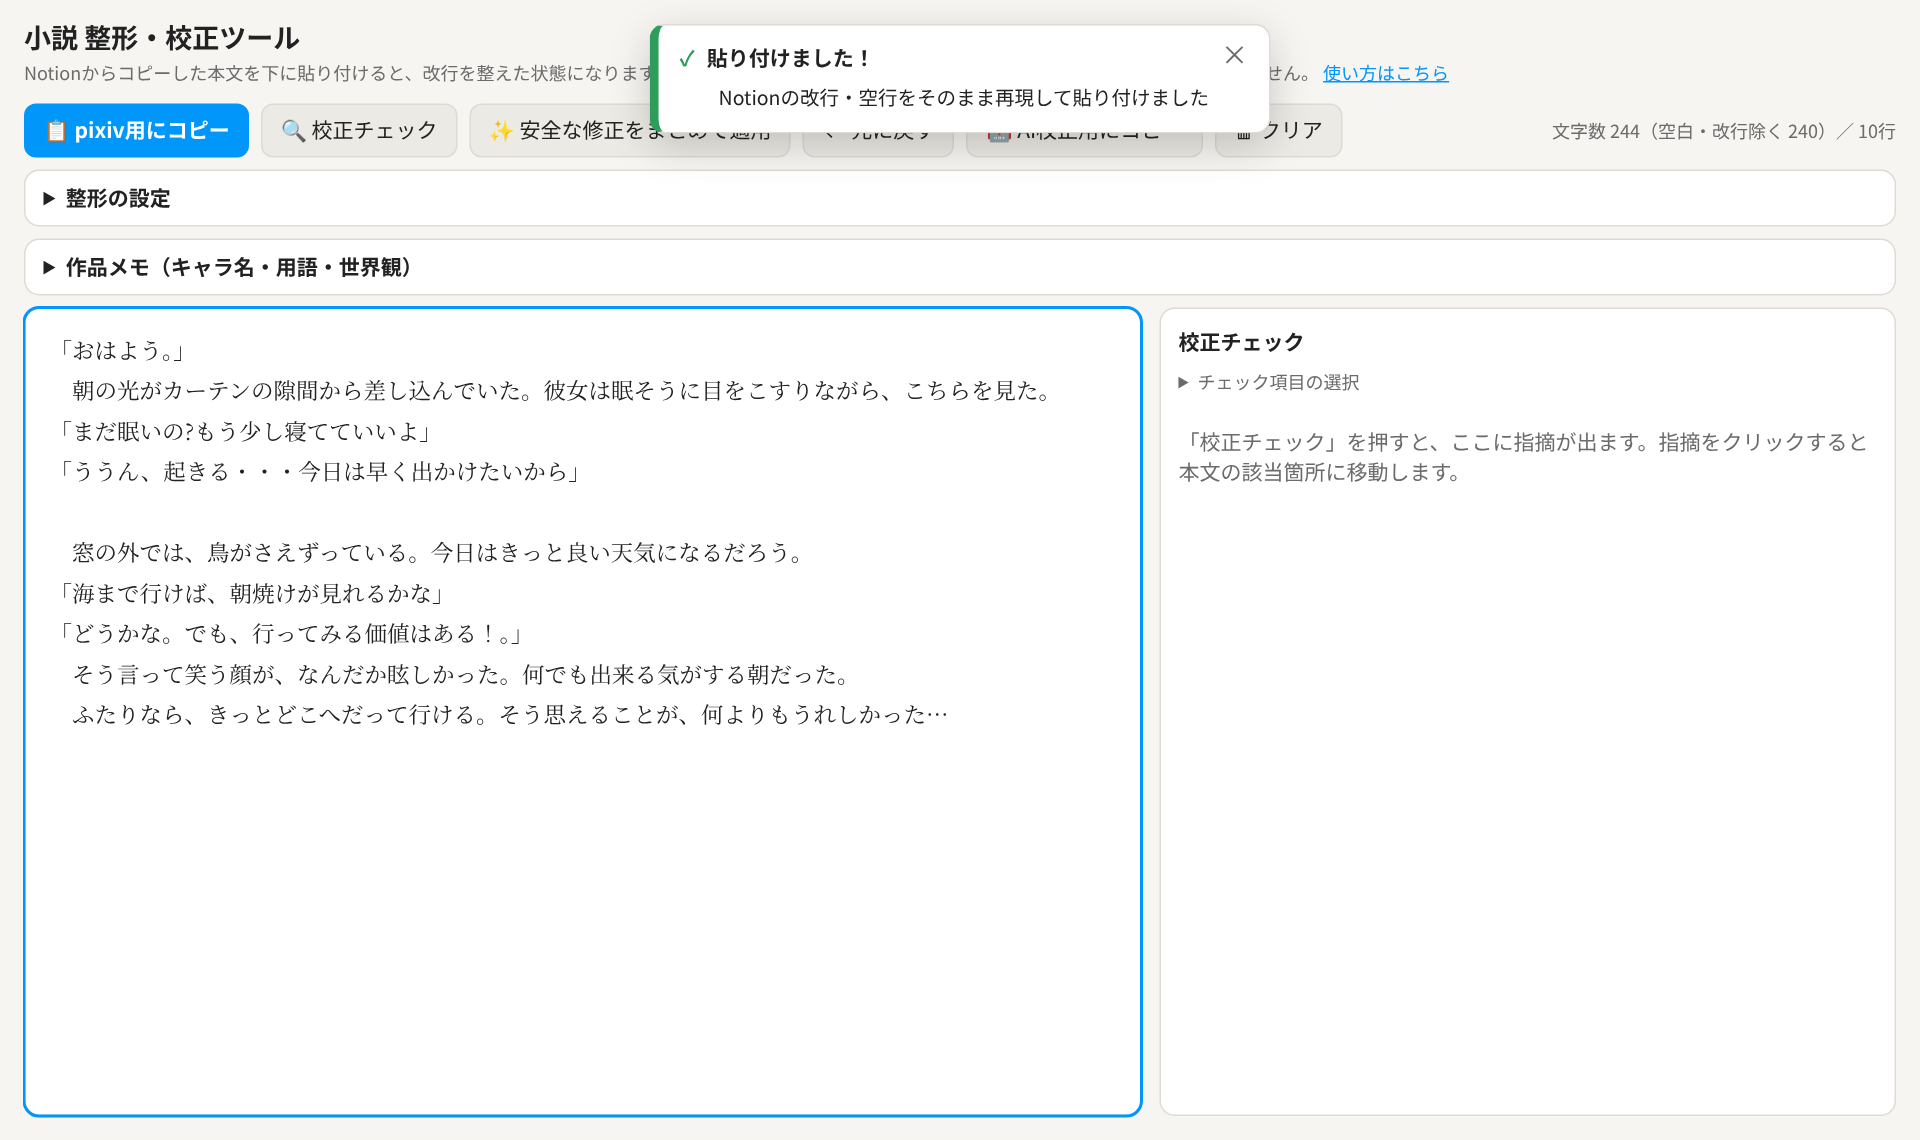
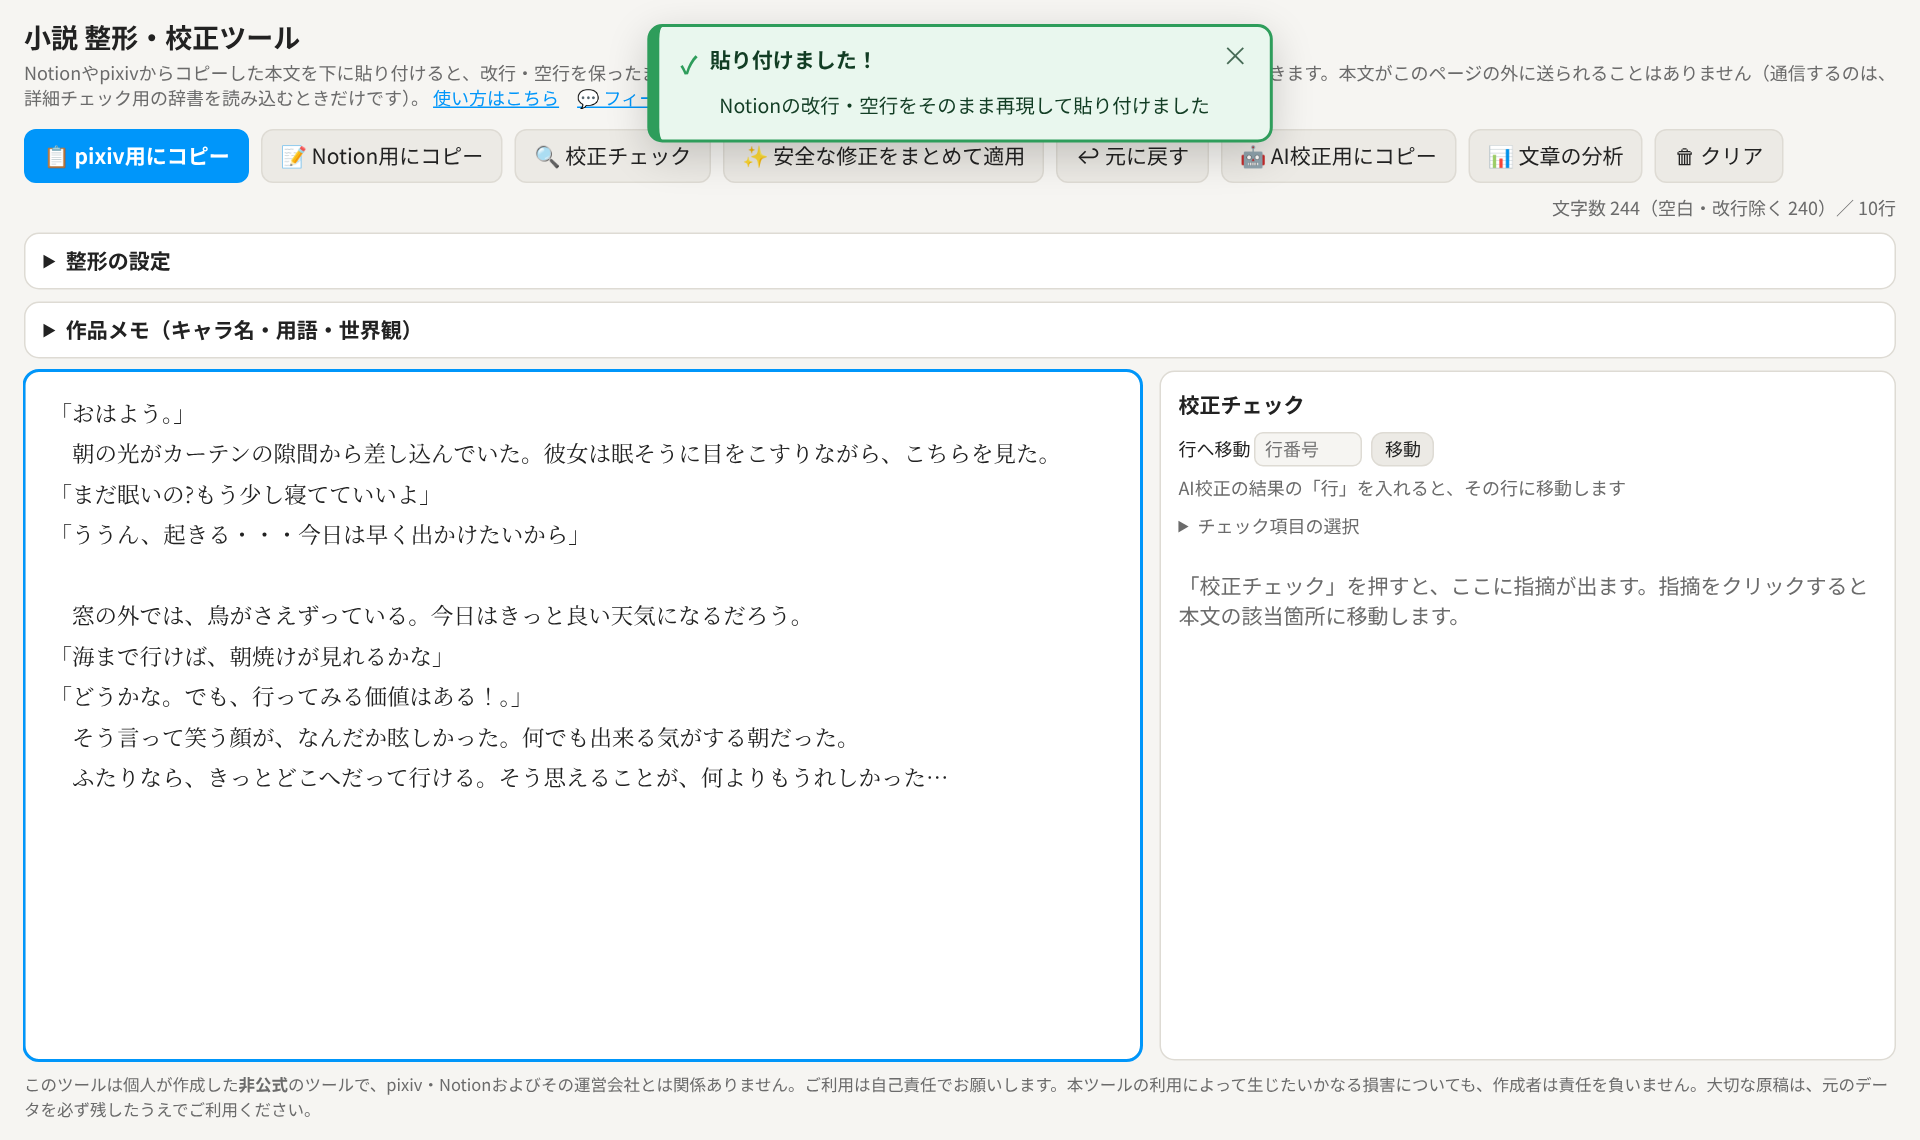
使い方と画面の説明を実際の動作に合わせて修正、画面写真を更新
Claude-Session: https://claude.ai/code/session_01B9w1WZYvb4cPPGvaUsJdEN

diff --git a/index.html b/index.html
@@ -3,7 +3,7 @@
 <head>
 <meta charset="utf-8">
 <meta name="viewport" content="width=device-width,initial-scale=1">
-<!-- 安全のため：このページは外部へ一切通信できないように設定しています。
+<!-- 安全のため：このページ自身は、本文を外部へ送る通信が一切できないように設定しています。
      例外は、同じサイトに置いた「詳細チェック」用のワーカー（deep/）が辞書ファイルを読み込むことだけで、本文は送信しません。 -->
 <meta http-equiv="Content-Security-Policy" content="default-src 'none'; script-src 'unsafe-inline'; worker-src 'self'; style-src 'unsafe-inline'; img-src data:; form-action 'none'; base-uri 'none'">
 <title>小説 整形・校正ツール</title>
@@ -185,7 +185,7 @@ ul.items li:hover{background:var(--btn)}
   <div class="memo-foot">
     <span id="memoStatus" class="memo-status"></span>
     <label class="row"><input type="checkbox" id="memoToAi"> 「AI校正用にコピー」のときにメモを添える</label>
-    <span class="desc">【人物】【用語】に書いた名前の表記ゆれと、【言い換え】に書いた誤りを校正チェックで指摘します。</span>
+    <span class="desc">【人物】【用語】に書いた名前の表記ゆれ・打ち間違い、【言い換え】に書いた誤り、【チェック】に書いた言葉を、校正チェックで指摘します。</span>
   </div>
 </details>
 
@@ -969,7 +969,7 @@ function analyzeText(t){
   // よく使う言葉（漢字2字以上・カタカナ2字以上・くり返しが気になりやすい言葉）
   const words = {};
   for (const m of t.matchAll(/[一-龠々]{2,}|[ァ-ヺー]{2,}/g)) words[m[0]] = (words[m[0]] || 0) + 1;
-  for (const [w] of REPEAT_WORDS) { const n = (t.match(new RegExp(w, 'g')) || []).length; if (n) words[w] = n; }
+  for (const [w, neg, head] of REPEAT_WORDS) { const n = (t.match(new RegExp((head ? '(?<=^|[。、！？「『\\n\\u3000 ])' : '') + w + (neg ? '(?!' + neg + ')' : ''), 'g')) || []).length; if (n) words[w] = n; }
   const top = (o, n) => Object.entries(o).sort((a, b) => b[1] - a[1]).slice(0, n);
   // 章ごとの文字数
   const chapters = []; let curName = '（はじめ）', curLen = 0;
@@ -1361,7 +1361,7 @@ if (typeof module !== 'undefined') module.exports = {analyzeText, webHtmlToText,
     if (!text.trim() && html && !fromNotion && /\n[ \t　]*\n/.test(normalizeNewlines(plain || ''))) {
       // pixivなどのWebページからのコピー：段落と改行・空行をそのまま保つ
       let w = null; try { w = webHtmlToText(html, new DOMParser()); } catch(err) { w = null; }
-      if (w && w.trim()) { text = w; exact = true; msg = /pixiv/i.test(html) || /\[chapter:/.test(w) ? 'pixivの本文の改行・空行をそのまま再現して貼り付けました' : 'ページの改行・空行をそのまま再現して貼り付けました'; }
+      if (w && w.trim()) { text = w; exact = true; msg = '改行・空行をそのまま再現して貼り付けました'; }
     }
     if (!text.trim() && html) {
       try { text = htmlToText(html, new DOMParser()); } catch(err) { text = ''; }
@@ -1550,7 +1550,7 @@ if (typeof module !== 'undefined') module.exports = {analyzeText, webHtmlToText,
     if (lastChecked) { const tm = document.createElement('span'); tm.className = 'checked-at'; tm.textContent = ta.value.length > 60000 ? `${lastCheckedAt} 時点（長い本文のため、直したあとは「校正チェック」を押して更新してください）` : `${lastCheckedAt} 時点（本文を直すと自動で更新されます）`; $('summary').append(tm); }
     if (!lastChecked) return;
     const hint = document.createElement('div'); hint.className = 'ai-hint';
-    hint.textContent = '💡 このチェックは決まった形のものだけを見つける一次チェックです。誤字・脱字・変換ミス・文法の誤りは、仕上げに「🤖 AI校正用にコピー」でAIに確認してもらいましょう（結果の「行」は上の「行へ移動」で探せます）。';
+    hint.textContent = '💡 このチェックは決まった形・辞書で判定できるものを見つける一次チェックです。文脈しだいの変換ミスや文法・文のつながりの誤りは、仕上げに「🤖 AI校正用にコピー」でAIに確認してもらいましょう（結果の「行」は上の「行へ移動」で探せます）。';
     if (!total) { const p = document.createElement('p'); p.className = 'empty'; p.textContent = 'ルールで見つかる問題はありませんでした。'; box.append(p, hint); return; }
     const starts = lineStarts(t);
     for (const g of groups) {
